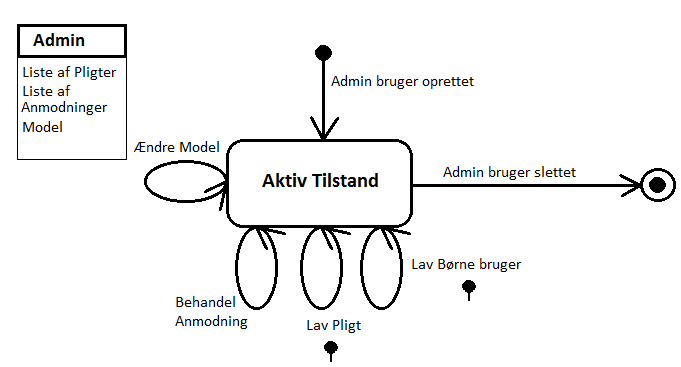
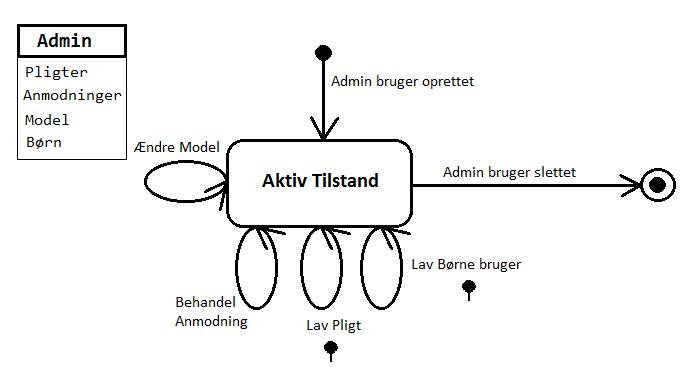
Picture Changed + Class Names In Text Changed To Mono

Changed region(s): [[0.0308, 0.2398, 0.185, 0.4196], [0.0308, 0.0899, 0.1542, 0.1499], [0.0308, 0.1798, 0.185, 0.2098]]

diff --git a/Indhold/Design/ObjektAnaDes.tex b/Indhold/Design/ObjektAnaDes.tex
@@ -1,9 +1,9 @@
-Dette afsnit handler om, hvordan man kan beskrive projektets problemområde i form af klasser og hændelser. Metoderne brugt i dette afsnit er hentet fra bogen \textit{Objektorienteret analyse og design} \cite{ObjektAnalyseDesign}. Klasser er overordnede repræsentationer af objekter, som for eksempel en enkel Pligt eller et Barn. Hændelser er de begivenheder og ændringer, som klasserne kan forårsage eller blive påvirket af. Klasser kan normalt blive beskrevet som et navneord, for eksempel en Admin eller en Pligt, mens hændelser kan blive beskrevet som udsagnsord, for eksempel en Admin som opretter en ny Pligt, og et Barn som efterfølgende optager denne Pligt. Klasser og hændelser for dette problemområde er blevet sat op i en hændelsestabel, som kan blive set på tabel \ref{Haendelstabel}. En plads som har et plustegn betyder, at den tilsvarende hændelse kun forekommer en gang pr. klasse instans, og et gangetegn betyder, at det kan forekomme flere gange.
+Dette afsnit handler om, hvordan man kan beskrive projektets problemområde i form af klasser og hændelser. Metoderne brugt i dette afsnit er hentet fra bogen \textit{Objektorienteret analyse og design} \cite{ObjektAnalyseDesign}. Klasser er overordnede repræsentationer af objekter, som for eksempel en enkel \code{Pligt} eller et \code{Barn}. Hændelser er de begivenheder og ændringer, som klasserne kan forårsage eller blive påvirket af. Klasser kan normalt blive beskrevet som et navneord, for eksempel en \code{Admin} eller en \code{Pligt,} mens hændelser kan blive beskrevet som udsagnsord, for eksempel en \code{Admin} som opretter en ny \code{Pligt}, og et \code{Barn} som efterfølgende optager denne \code{Pligt}. Klasser og hændelser for dette problemområde er blevet sat op i en hændelsestabel, som kan blive set på tabel \ref{Haendelstabel}. En plads som har et plustegn betyder, at den tilsvarende hændelse kun forekommer en gang pr. klasse instans, og et gangetegn betyder, at det kan forekomme flere gange.
 
 \begin{table}[htb]
 	\small 
 	\newcolumntype{C}{>{\centering}X}
-	\setlength{\tabcolsep}{6pt}
+	\setlength{\tabcolsep}{5pt}
 	
 	\begin{tabularx}{\textwidth}{|>{\bfseries}l|c|c|c|C|C|c|c|c|}
 		\hline
@@ -13,16 +13,16 @@ Dette afsnit handler om, hvordan man kan beskrive projektets problemområde i fo
 		\textbf{\code{Pligt}} & + & * &   &   & + &   &   &  							\tabularnewline \hline
 		\textbf{\code{Barn}}  &   & * & * &   & * & * & * & * 							\tabularnewline \hline
 		\textbf{\code{Model}} & * &   &   &   & * &   &   &  							\tabularnewline \hline
-		\textbf{\code{\small{Anmodning}}} &   &   & + & + &   &   &   &  						\tabularnewline \hline
+		\textbf{\code{Anmod}} &   &   & + & + &   &   &   &  						\tabularnewline \hline
 	\end{tabularx}
 	
 	\caption{Hændelsestabel}
 	\label{Haendelstabel}
 \end{table} 
  
-Tabellen giver et overordnet overblik til sammenhængen mellem klasser og hændelser, og være beskrivende for de mere væsentlige dele af problemområdet. En Anmodning er i denne sammenhæng en besked et barn sender til sin Admin om, at det har fuldført en af sine tilskrevne pligter og ønsker denne behandlet.
+Tabellen giver et overordnet overblik til sammenhængen mellem klasser og hændelser, og være beskrivende for de mere væsentlige dele af problemområdet. En \code{Anmodning} er i denne sammenhæng en besked et barn sender til sin \code{Admin} om, at det har fuldført en af sine tilskrevne pligter og ønsker denne behandlet.
 
-Klasserne kan herefter blive sat op i klasse diagram, som viser de indbyrdes sammenhænge mellem klasserne i problemområdet. Se figur \ref{KlasseDiagram}. Klassehierarkier bliver vist indkapslet i kasser, samt pile fra underklasser til superklasser. Rene streger viser associering, som Model og Admin, hvor lommepenge modellen går ind og påvirker på hvad forældrene gør i forhold til pligter og udbetalinger. En klasse som tilhører en anden klasse, bliver vist med en rombe istedet for en pil. Ligeledes angiver tallene mængden af hver klasse til en anden klasse. For eksempel så er en pligt altid kun forbundet til den Admin som lavede den, mens en Admin sagtens kan lave adskillige pligter.
+Klasserne kan herefter blive sat op i klasse diagram, som viser de indbyrdes sammenhænge mellem klasserne i problemområdet. Se figur \ref{KlasseDiagram}. Klassehierarkier bliver vist indkapslet i kasser, samt pile fra underklasser til superklasser. Rene streger viser associering, som \code{Model} og \code{Admin}, hvor lommepenge modellen går ind og påvirker på hvad forældrene gør i forhold til pligter og udbetalinger. En klasse som tilhører en anden klasse, bliver vist med en rombe i stedet for en pil. Ligeledes angiver tallene mængden af hver klasse til en anden klasse. For eksempel så er en \code{Pligt} altid kun forbundet til den \code{Admin} som lavede den, mens en \code{Admin} sagtens kan lave adskillige pligter.
 
 \begin{figure}[H]
 \centering
@@ -36,27 +36,27 @@ Ud fra den foregående hændelsestabel samt klassediagram kan man beskrive klass
 \begin{figure}[H]
 \centering
 \includegraphics[width=0.8\textwidth]{Billeder/ForaelderForloeb.png}
-\caption{Admin-hændelsesforløb.}
+\caption{\code{Admin}-hændelsesforløb.}
 \label{ForaelderHaendelsesforloeb}
 \end{figure}
 
 \begin{figure}[H]
 \centering
 \includegraphics[width=0.8\textwidth]{Billeder/BoernForloeb.png}
-\caption{Barn-hændelsesforløb.}
+\caption{\code{Barn}-hændelsesforløb.}
 \label{BarnHaendelsesforloeb}
 \end{figure}
 
 \begin{figure}[H]
 \centering
 \includegraphics[width=0.8\textwidth]{Billeder/PligtForloeb.png}
-\caption{Pligt-hændelsesforløb.}
+\caption{\code{Pligt}-hændelsesforløb.}
 \label{PligtHaendelsesforloeb}
 \end{figure}
 
 \begin{figure}[H]
 \centering
 \includegraphics[width=0.8\textwidth]{Billeder/AnmodningForloeb.png}
-\caption{Anmodning-hændelsesforløb.}
+\caption{\code{Anmodning}-hændelsesforløb.}
 \label{AnmodningHaendelsesforloeb}
 \end{figure}
